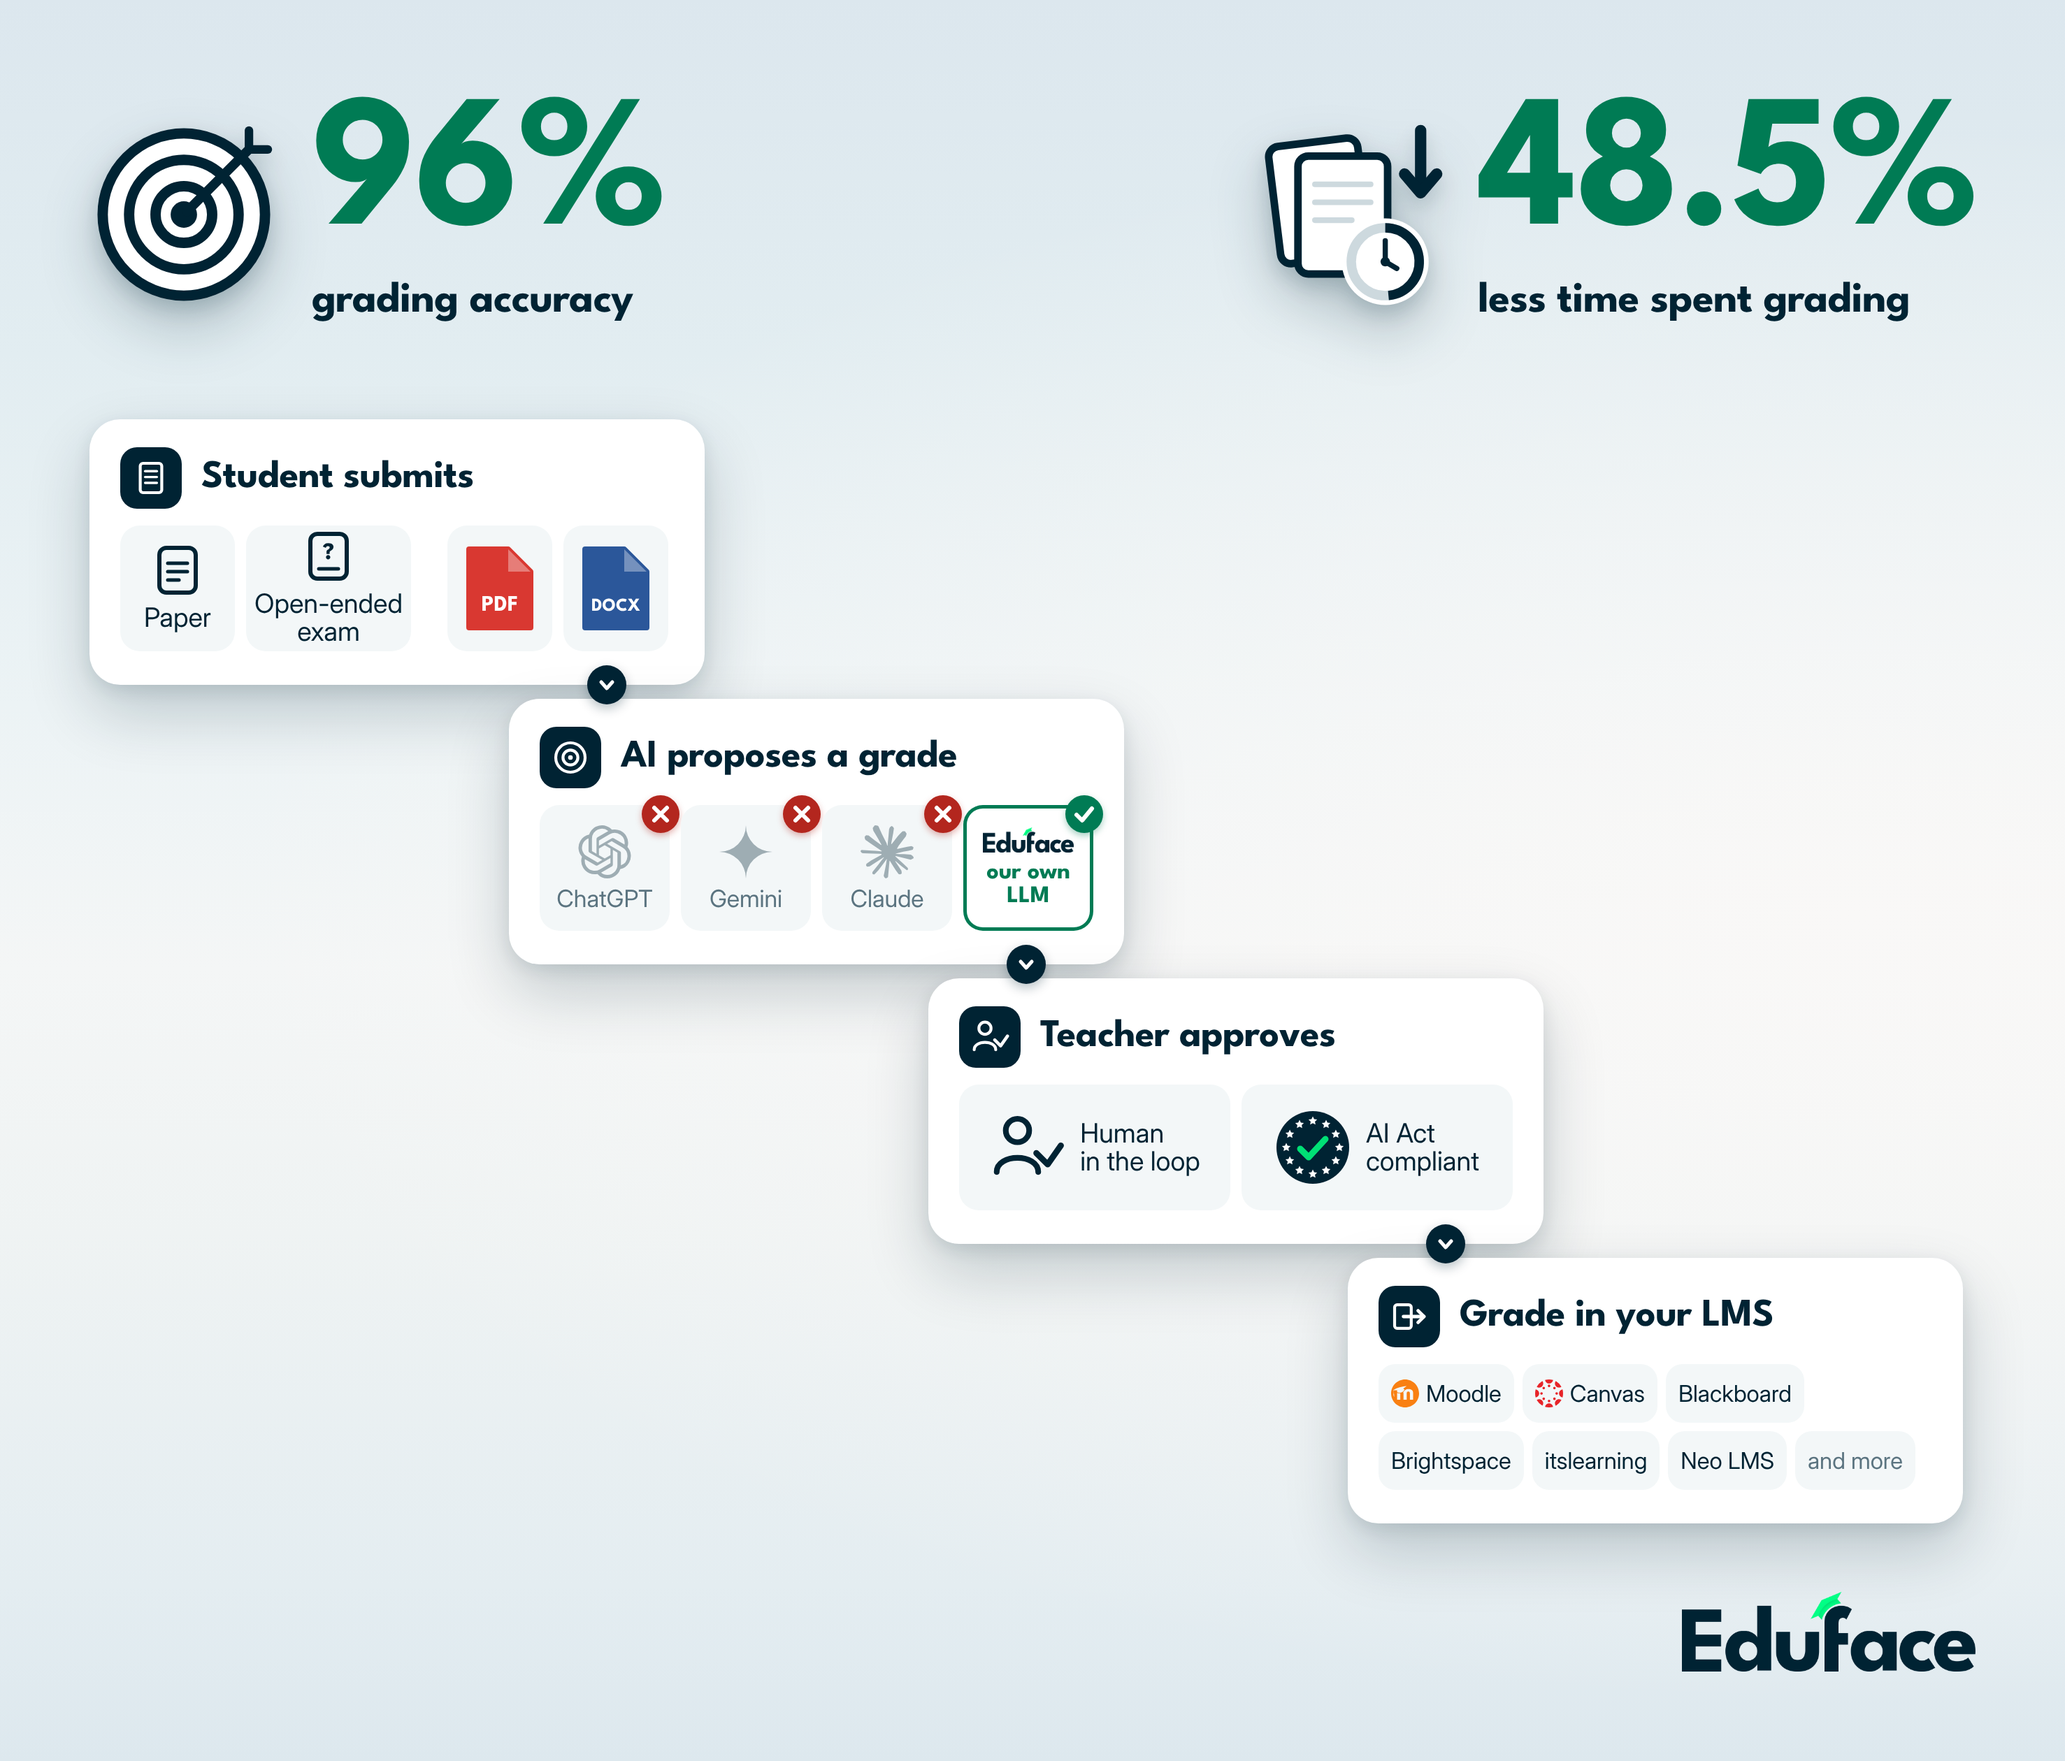
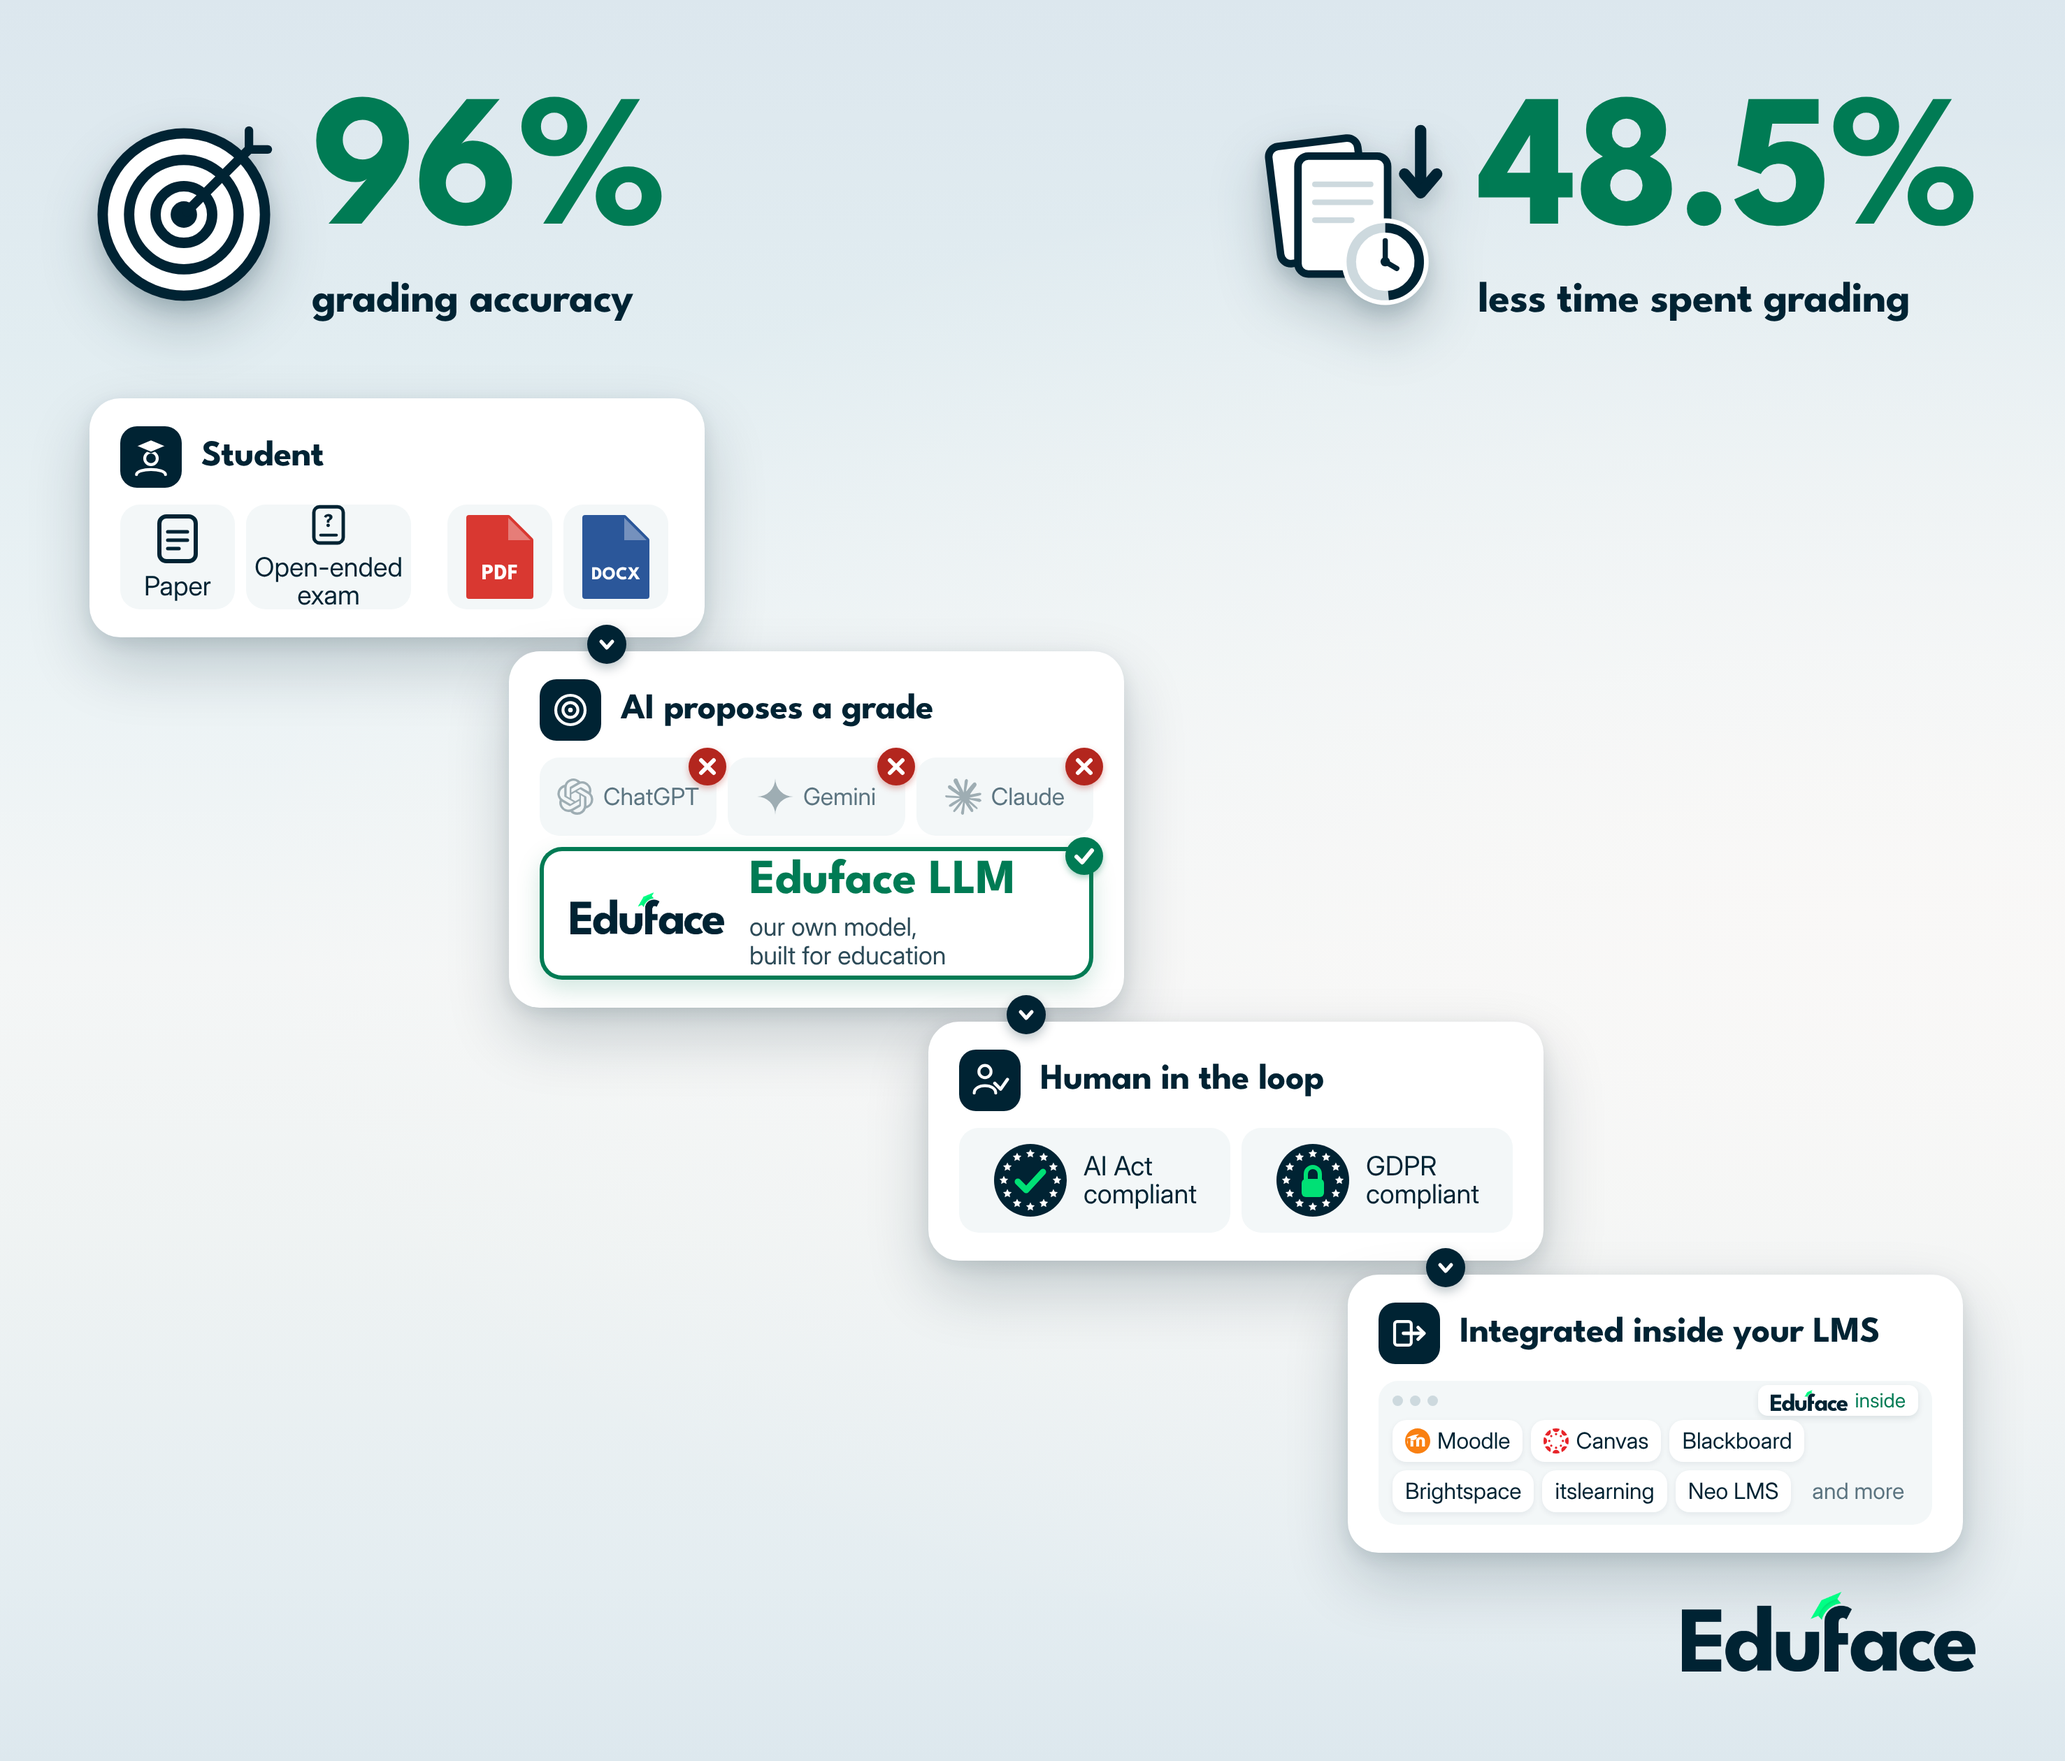
Backwall: studenticoon, Eduface LLM-blok, compliance-badges, LMS-venster; open vraag GDPR
Claude-Session: https://claude.ai/code/session_011t24oRcD5DFuXzKigdVhtb

Changed region(s): [[0.0311, 0.2167, 0.9655, 0.8976]]

diff --git a/creatives/beurs-backwall/backwall.html b/creatives/beurs-backwall/backwall.html
@@ -26,12 +26,12 @@
   .lbl { font: 700 62px/1.05 "League Spartan"; letter-spacing: -.01em; margin-top: 38px; white-space: nowrap; }
 
   /* trap van kaarten */
-  .card { position: absolute; width: 880px; height: 380px; padding: 40px 44px; background: #fff; border-radius: 44px;
+  .card { position: absolute; width: 880px; padding: 40px 44px; background: #fff; border-radius: 44px;
     box-shadow: 0 8px 24px rgba(0,35,51,.10), 0 40px 90px rgba(0,35,51,.20); }
   .head { display: flex; align-items: center; gap: 28px; height: 88px; }
   .tile { flex: none; width: 88px; height: 88px; border-radius: 24px; background: var(--navy); display: flex; align-items: center; justify-content: center; }
-  .title { font: 700 56px/1 "League Spartan"; letter-spacing: -.01em; }
-  .row { display: flex; gap: 16px; margin-top: 24px; height: 180px; }
+  .title { font: 700 52px/1 "League Spartan"; letter-spacing: -.01em; white-space: nowrap; }
+  .row { display: flex; gap: 16px; margin-top: 24px; height: 150px; }
   .cell { position: relative; background: var(--i50); border-radius: 28px; display: flex; flex-direction: column; align-items: center; justify-content: center; gap: 12px;
     font: 400 38px/1.05 "Inter"; color: var(--navy); text-align: center; }
   .cell small { font: 400 34px/1 "Inter"; color: var(--i5); }
@@ -40,10 +40,20 @@
   .ok { position: absolute; top: -14px; right: -14px; width: 54px; height: 54px; border-radius: 50%; background: var(--gd); box-shadow: 0 4px 10px rgba(0,123,84,.35); }
   .link { position: absolute; width: 56px; height: 56px; border-radius: 50%; background: var(--navy); display: flex; align-items: center; justify-content: center;
     box-shadow: 0 6px 16px rgba(0,35,51,.28); z-index: 5; }
-  .lms { display: flex; flex-wrap: wrap; gap: 12px; margin-top: 24px; }
-  .lms span { display: inline-flex; align-items: center; gap: 10px; height: 84px; padding: 0 18px; background: var(--i50); border-radius: 24px; font: 400 33px/1 "Inter"; white-space: nowrap; }
-  .lms span.soft { color: var(--i5); }
-  .lms img { width: 40px; height: 40px; }
+  .win { margin-top: 24px; background: var(--i50); border-radius: 28px; padding: 0 20px 18px; }
+  .bar { height: 56px; display: flex; align-items: center; gap: 10px; }
+  .bar i { width: 15px; height: 15px; border-radius: 50%; background: var(--i2); }
+  .tab { margin-left: auto; background: #fff; border-radius: 14px; padding: 7px 18px; display: flex; align-items: center; gap: 10px;
+    box-shadow: 0 4px 10px rgba(0,35,51,.10); font: 400 28px/1 "Inter"; color: var(--gd); }
+  .lms { display: flex; flex-wrap: wrap; gap: 12px; }
+  .lms span { display: inline-flex; align-items: center; gap: 10px; height: 60px; padding: 0 18px; background: #fff; border-radius: 20px; font: 400 32px/1 "Inter"; white-space: nowrap;
+    box-shadow: 0 3px 8px rgba(0,35,51,.07); }
+  .lms span.soft { color: var(--i5); background: transparent; box-shadow: none; }
+  .lms img { width: 36px; height: 36px; }
+  .big { position: relative; margin-top: 16px; height: 190px; border-radius: 32px; background: #fff; box-shadow: inset 0 0 0 6px var(--gd), 0 14px 34px rgba(0,123,84,.18);
+    display: flex; align-items: center; gap: 36px; padding: 0 44px; }
+  .big .t1 { font: 700 70px/1 "League Spartan"; letter-spacing: -.01em; color: var(--gd); }
+  .big .t2 { font: 400 36px/1.15 "Inter"; color: var(--i7); margin-top: 10px; }
 </style>
 </head>
 <body>
@@ -75,6 +85,7 @@ const ti = {
   submit: sv(`<rect x="90" y="50" width="220" height="300" rx="28" fill="none" stroke="${W}" stroke-width="30"/>${[130,190,250].map(v=>`<line x1="140" y1="${v}" x2="260" y2="${v}" stroke="${W}" stroke-width="24" stroke-linecap="round"/>`).join('')}`,56),
   ai: sv(`<circle cx="200" cy="200" r="150" fill="none" stroke="${W}" stroke-width="30"/><circle cx="200" cy="200" r="76" fill="none" stroke="${W}" stroke-width="30"/><circle cx="200" cy="200" r="24" fill="${W}"/>`,56),
   teacher: sv(`<circle cx="150" cy="110" r="62" fill="none" stroke="${W}" stroke-width="30"/><path d="M40,330 C40,230 260,230 260,330" fill="none" stroke="${W}" stroke-width="30" stroke-linecap="round"/><polyline points="250,230 310,290 380,190" fill="none" stroke="${W}" stroke-width="32" stroke-linecap="round" stroke-linejoin="round"/>`,56),
+  student: sv(`<circle cx="200" cy="214" r="64" fill="none" stroke="${W}" stroke-width="30"/><path d="M52,380 C52,310 348,310 348,380" fill="none" stroke="${W}" stroke-width="30" stroke-linecap="round"/><polygon points="200,22 356,88 200,154 44,88" fill="${W}" stroke="#002333" stroke-width="16" stroke-linejoin="round"/>`,56),
   lms: sv(`<rect x="50" y="80" width="170" height="240" rx="26" fill="none" stroke="${W}" stroke-width="30"/><line x1="140" y1="200" x2="350" y2="200" stroke="${W}" stroke-width="34" stroke-linecap="round"/><polyline points="290,140 350,200 290,260" fill="none" stroke="${W}" stroke-width="34" stroke-linecap="round" stroke-linejoin="round"/>`,56)
 };
 
@@ -85,13 +96,14 @@ const fileLogo=(t,c)=>`<svg width="104" height="124" viewBox="0 0 104 124"><path
 const xBadge=`<div class="x"><svg width="54" height="54" viewBox="0 0 54 54"><path d="M18,18 L36,36 M36,18 L18,36" stroke="#fff" stroke-width="6" stroke-linecap="round"/></svg></div>`;
 const okBadge=`<div class="ok"><svg width="54" height="54" viewBox="0 0 54 54"><path d="M16,28 L24,36 L38,19" fill="none" stroke="#fff" stroke-width="6" stroke-linecap="round" stroke-linejoin="round"/></svg></div>`;
 function stars(cx,cy,r,n,sz,c){let o='';for(let i=0;i<n;i++){const [x,y]=polar(cx,cy,r,i*360/n);o+=`<polygon transform="translate(${x},${y}) scale(${sz})" points="0,-1 .29,-.4 .95,-.31 .47,.15 .59,.81 0,.5 -.59,.81 -.47,.15 -.95,-.31 -.29,-.4" fill="${c}"/>`;}return o;}
+const gdprBadge=`<svg width="108" height="108" viewBox="0 0 108 108"><circle cx="54" cy="54" r="52" fill="${N}"/>${stars(54,54,38,12,6.5,'#fff')}<rect x="38" y="52" width="32" height="26" rx="6" fill="#00e075"/><path d="M44,52 V45 a10,10 0 0 1 20,0 V52" fill="none" stroke="#00e075" stroke-width="6" stroke-linecap="round"/></svg>`;
 const aiActBadge=`<svg width="108" height="108" viewBox="0 0 108 108"><circle cx="54" cy="54" r="52" fill="${N}"/>${stars(54,54,38,12,6.5,'#fff')}<path d="M36,56 L48,68 L72,42" fill="none" stroke="#00e075" stroke-width="9" stroke-linecap="round" stroke-linejoin="round"/></svg>`;
 const humanIcon=`<svg width="108" height="108" viewBox="0 0 400 400"><circle cx="150" cy="110" r="62" fill="none" stroke="${N}" stroke-width="30"/><path d="M40,330 C40,230 260,230 260,330" fill="none" stroke="${N}" stroke-width="30" stroke-linecap="round"/><polyline points="250,230 310,290 380,190" fill="none" stroke="${N}" stroke-width="32" stroke-linecap="round" stroke-linejoin="round"/></svg>`;
 const L=(f)=>`assets/logos/${f}.svg`;
 
 /* ---- kaarten ---- */
-const X0=[128,728,1328,1928], Y0=[600,1000,1400,1800];
-const card=(i,icon,title,body)=>`<div class="card" style="left:${X0[i]}px;top:${Y0[i]}px"><div class="head"><div class="tile">${icon}</div><div class="title">${title}</div></div>${body}</div>`;
+const H=[342,510,342,398], GAP=20, X0=[128,728,1328,1928]; const Y0=[]; H.reduce((y,h,i)=>{Y0[i]=y;return y+h+GAP;},570);
+const card=(i,icon,title,body)=>`<div class="card" style="left:${X0[i]}px;top:${Y0[i]}px;height:${H[i]}px"><div class="head"><div class="tile">${icon}</div><div class="title">${title}</div></div>${body}</div>`;
 
 const c1=`<div class="row">
   <div class="cell" style="width:164px">${docIcon()}Paper</div>
@@ -99,20 +111,21 @@ const c1=`<div class="row">
   <div style="width:20px"></div>
   <div class="cell" style="width:150px">${fileLogo('PDF','#d93831')}</div>
   <div class="cell" style="width:150px">${fileLogo('DOCX','#2b579a')}</div></div>`;
-const llm=(img,name)=>`<div class="cell" style="width:188px"><img src="${L(img)}" width="76" height="76" style="opacity:.8"><small>${name}</small>${xBadge}</div>`;
-const c2=`<div class="row">${llm('openai','ChatGPT')}${llm('googlegemini','Gemini')}${llm('claude','Claude')}
-  <div class="cell" style="width:188px;background:#fff;box-shadow:inset 0 0 0 5px #007b54"><img src="../../Design/Merk/logos/logo_navy.png" width="130"><span style="font:700 34px/1 'League Spartan';color:#007b54">our own LLM</span>${okBadge}</div></div>`;
+const llm=(img,name)=>`<div class="cell" style="width:256px;height:112px;flex-direction:row;gap:14px;font-size:34px;color:#5b7480"><img src="${L(img)}" width="52" height="52" style="opacity:.8">${name}${xBadge}</div>`;
+const c2=`<div class="row" style="height:112px">${llm('openai','ChatGPT')}${llm('googlegemini','Gemini')}${llm('claude','Claude')}</div>
+  <div class="big"><img src="../../Design/Merk/logos/logo_navy.png" width="220"><div><div class="t1">Eduface LLM</div><div class="t2">our own model,<br>built for education</div></div>${okBadge}</div>`;
 const c3=`<div class="row">
-  <div class="cell" style="width:396px;flex-direction:row;gap:22px;padding:0 20px">${humanIcon}<span style="text-align:left;font-weight:400">Human<br>in the loop</span></div>
-  <div class="cell" style="width:396px;flex-direction:row;gap:22px;padding:0 20px">${aiActBadge}<span style="text-align:left">AI Act<br>compliant</span></div></div>`;
-const c4=`<div class="lms"><span><img src="${L('moodle')}">Moodle</span><span><img src="${L('canvas')}">Canvas</span><span>Blackboard</span><span>Brightspace</span><span>itslearning</span><span>Neo LMS</span><span class="soft">and more</span></div>`;
+  <div class="cell" style="width:396px;flex-direction:row;gap:22px;padding:0 20px">${aiActBadge}<span style="text-align:left">AI Act<br>compliant</span></div>
+  <div class="cell" style="width:396px;flex-direction:row;gap:22px;padding:0 20px">${gdprBadge}<span style="text-align:left">GDPR<br>compliant</span></div></div>`;
+const c4=`<div class="win"><div class="bar"><i></i><i></i><i></i><div class="tab"><img src="../../Design/Merk/logos/logo_navy.png" height="30" style="height:30px;width:auto">inside</div></div>
+  <div class="lms"><span><img src="${L('moodle')}">Moodle</span><span><img src="${L('canvas')}">Canvas</span><span>Blackboard</span><span>Brightspace</span><span>itslearning</span><span>Neo LMS</span><span class="soft">and more</span></div></div>`;
 
 const chev=`<svg width="30" height="30" viewBox="0 0 30 30"><polyline points="7,11 15,20 23,11" fill="none" stroke="#fff" stroke-width="5" stroke-linecap="round" stroke-linejoin="round"/></svg>`;
 let h='';
 h+=`<div class="stat" style="left:128px">${target(270)}<div><div class="num">96%</div><div class="lbl">grading accuracy</div></div></div>`;
 h+=`<div class="stat" style="right:128px">${papers(270)}<div><div class="num">48.5%</div><div class="lbl">less time spent grading</div></div></div>`;
-h+=card(0,ti.submit,'Student submits',c1)+card(1,ti.ai,'AI proposes a grade',c2)+card(2,ti.teacher,'Teacher approves',c3)+card(3,ti.lms,'Grade in your LMS',c4);
-[0,1,2].forEach(i=>{h+=`<div class="link" style="left:${X0[i]+712}px;top:${Y0[i]+352}px">${chev}</div>`;});
+h+=card(0,ti.student,'Student',c1)+card(1,ti.ai,'AI proposes a grade',c2)+card(2,ti.teacher,'Human in the loop',c3)+card(3,ti.lms,'Integrated inside your LMS',c4);
+[0,1,2].forEach(i=>{h+=`<div class="link" style="left:${X0[i]+712}px;top:${Y0[i]+H[i]+GAP/2-28}px">${chev}</div>`;});
 document.getElementById('layer-content').innerHTML=h;
 </script>
 </body>

diff --git a/Context/open-vragen.md b/Context/open-vragen.md
@@ -34,6 +34,7 @@ De enige plek waar openstaande vragen aan Dante staan. Een vraag die hier staat 
 | V11 | Werkt alles in de browser zonder lokale installatie, kunnen functies per instelling aan en uit, wat moet een instelling technisch inrichten (LMS-koppeling, SSO, accountbeheer), en kunnen studenten zelf verwijderen? | Staat geel in `GTM/Knowledge/privacy-vragenlijsten/antwoorden-privacy-it-vragen-2026-10-02.docx`. | 02-10-2026 |
 | V12 | Continuïteit van het bedrijf zelf (financiering, team, exit- of escrowregeling) en het aantal getekende verwerkersovereenkomsten met Nederlandse instellingen. | Zelfde vragenlijst, vraag 9 en 12. | 02-10-2026 |
 | V13 | **Welke bestandstypen kan een student inleveren, en gaat dat voor zowel papers als open examens?** Op de beurswand staat nu "PDF, DOCX" op jouw woord (25-11-2026), maar het staat niet in `Platform/product.md`. | Een productclaim op een publieke wand moet in de bron staan. Bevestig of er meer bij moeten (bijv. handgeschreven, scans) of er iets af moet. | 25-11-2026 |
+| V14 | **"GDPR compliant" of "UK GDPR compliant" op de beurswand?** In `Platform/product.md` staat alleen "voldoet aan de UK GDPR". De privacykennis zegt over de AVG: *aansluiten*, geen certificering. | Een claim op een publieke wand moet in de bron staan. Voor een Nederlandse beurs past de AVG, voor een UK-beurs de UK GDPR. Welke beurs is het, en mag "compliant" zo? | 25-11-2026 |
 
 ## Later, geen vraag maar een richting
 
